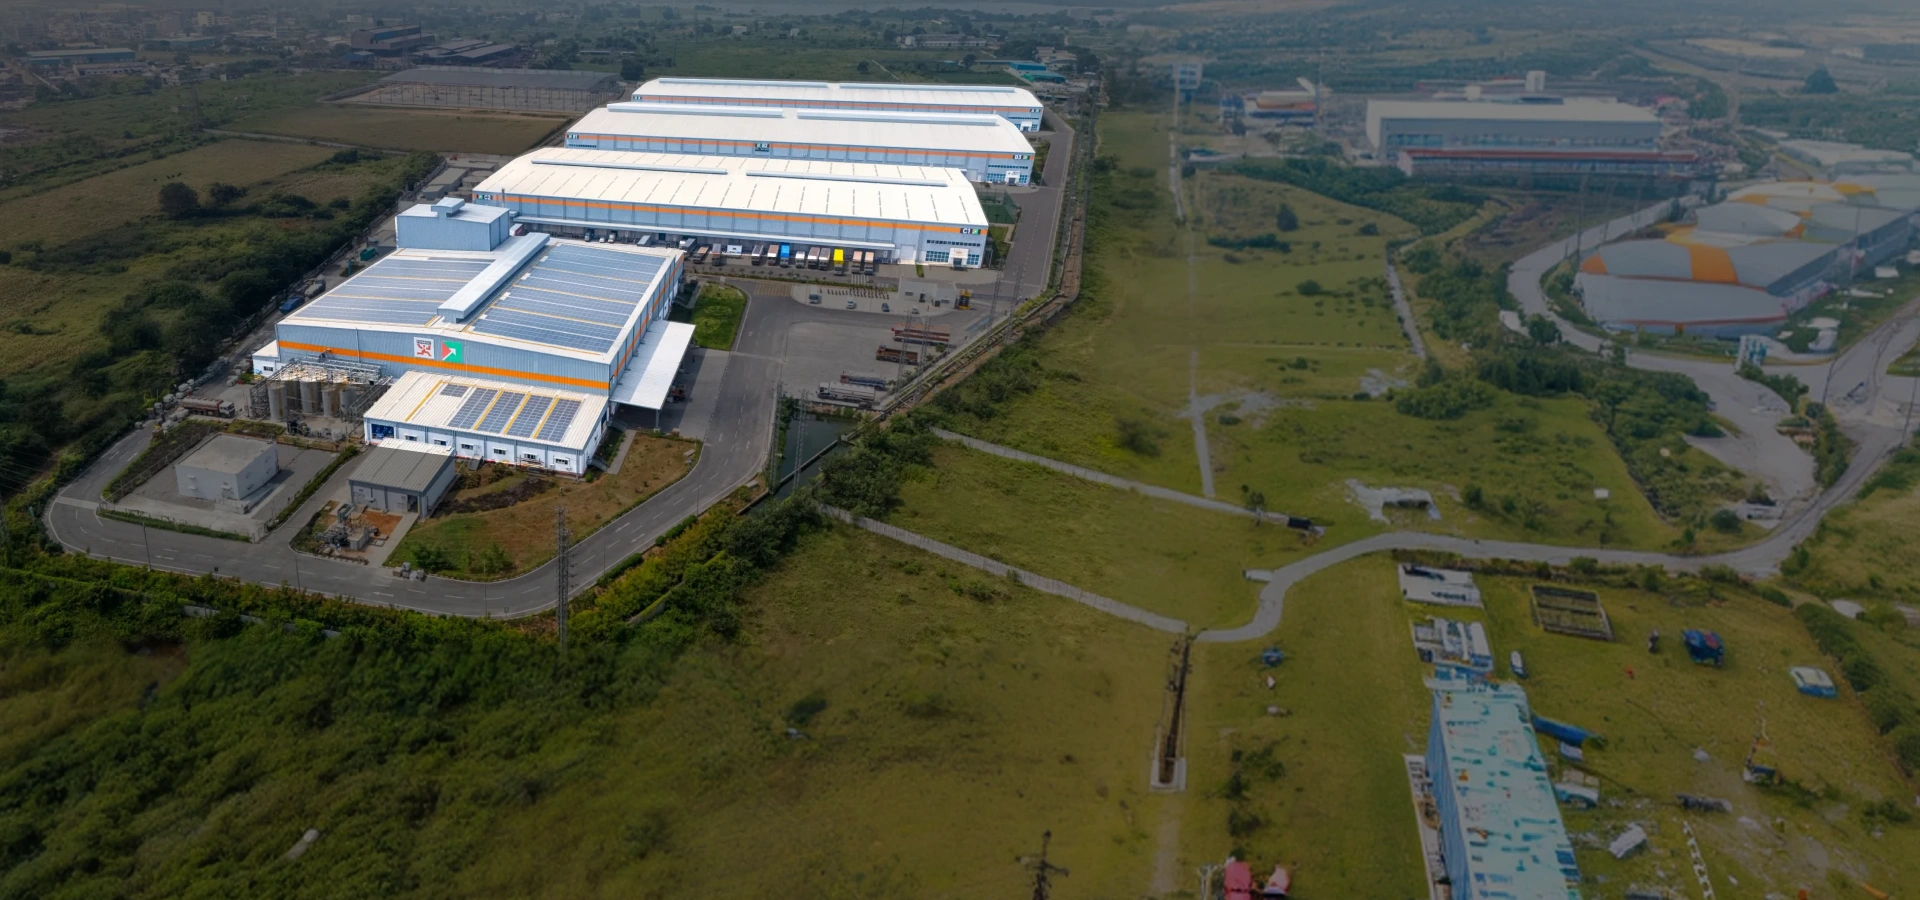
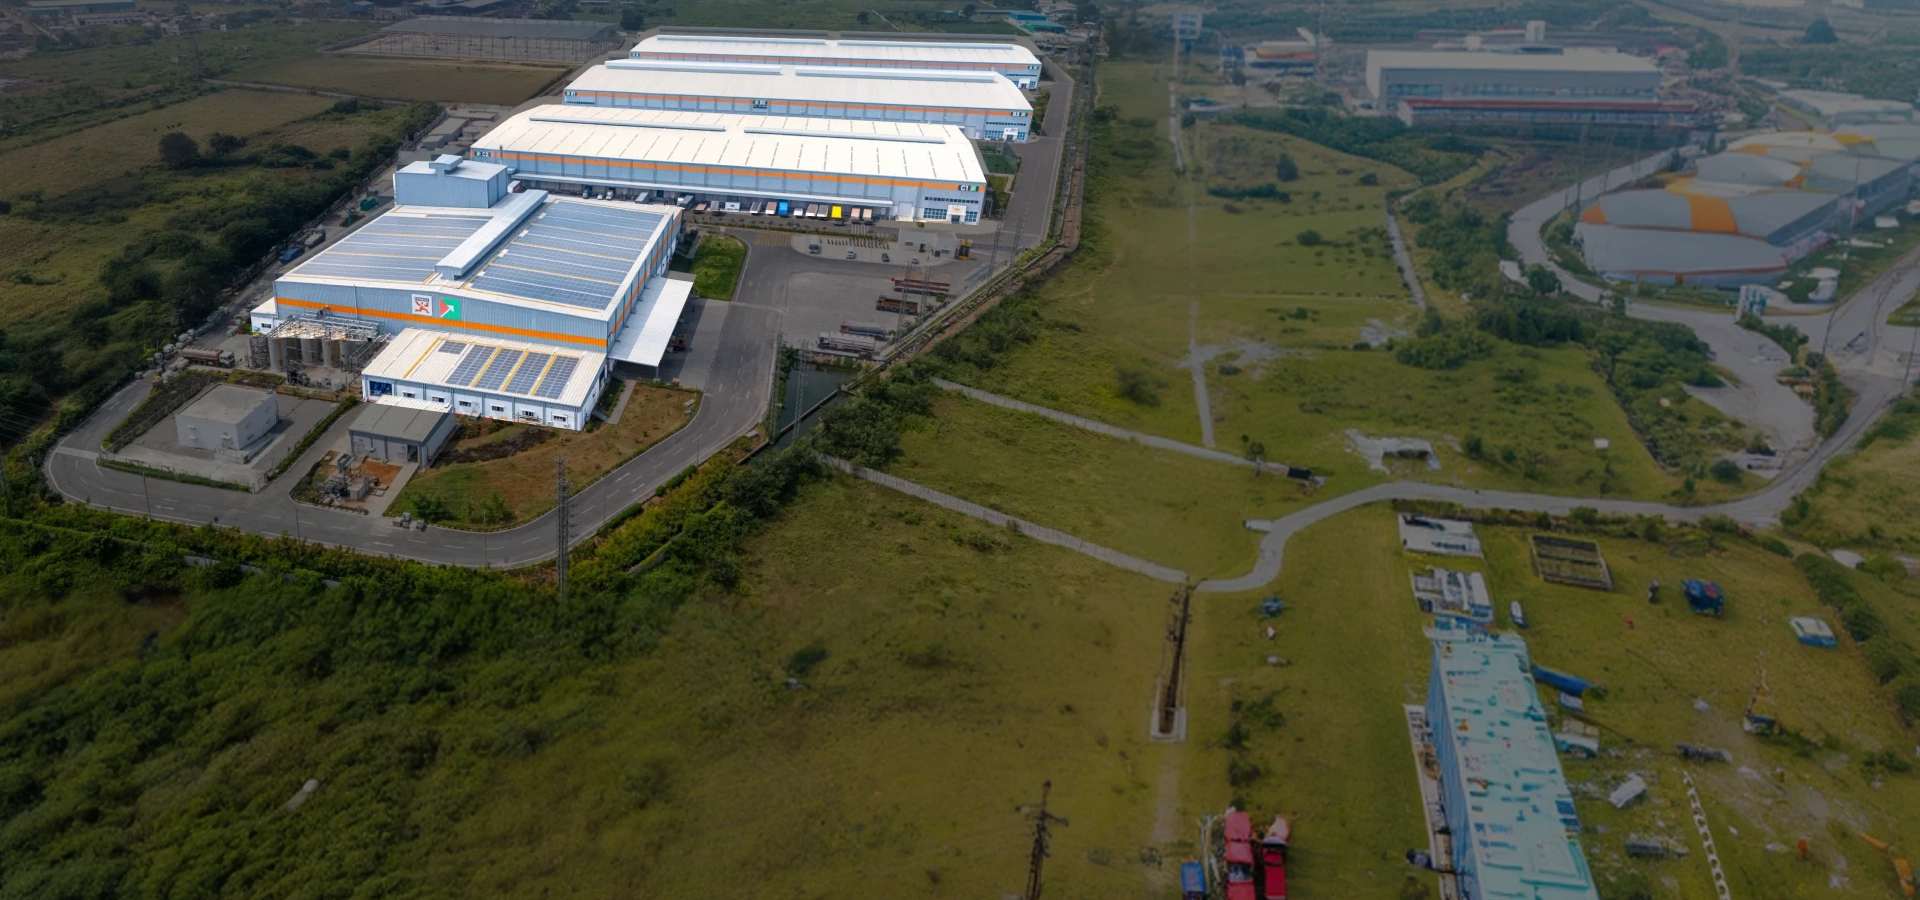
BTS Spotlight fixed

diff --git a/components/bts_campaign/WarehousingForm.jsx b/components/bts_campaign/WarehousingForm.jsx
@@ -326,8 +326,8 @@ const WarehousingForm = () => {
       <div className="fix pb-20">
         <div className="flex flex-col pt-12 lg:flex-row items-end justify-end gap-12 lg:gap-8">
           {/* Left Section */}
-          <div className="lg:w-[50%] flex flex-col justify-center gap-5 lg:gap-10 w-full lg:pb-6">
-            <div className="flex flex-col gap-7">
+          <div className="lg:w-[50%] flex flex-col justify-center gap-5 lg:gap-[20px] w-full lg:pb-6">
+            <div className="flex flex-col gap-[15px]">
               <h1 className="lg:text-[48px] text-[32px] bw-m leading-[35px] tracking-[-1.9px] lg:leading-[66px] text-white">
                 57% of our network serves
                 <div className="flex items-start flex-col lg:flex-row overflow-visible">
@@ -341,7 +341,7 @@ const WarehousingForm = () => {
                   />
                 </div>
               </h1>
-              <p className="lg:text-[24px] text-[18px] lg:max-w-[80%] text-[#fff]">
+              <p className="lg:text-[24px] text-[18px] lg:max-w-[100%] text-[#fff]">
                 Horizon Industrial Parks delivers built-to-suit, Grade-A
                 manufacturing facilities for diverse industries including
                 automotive, engineering, aerospace, chemicals and more.
